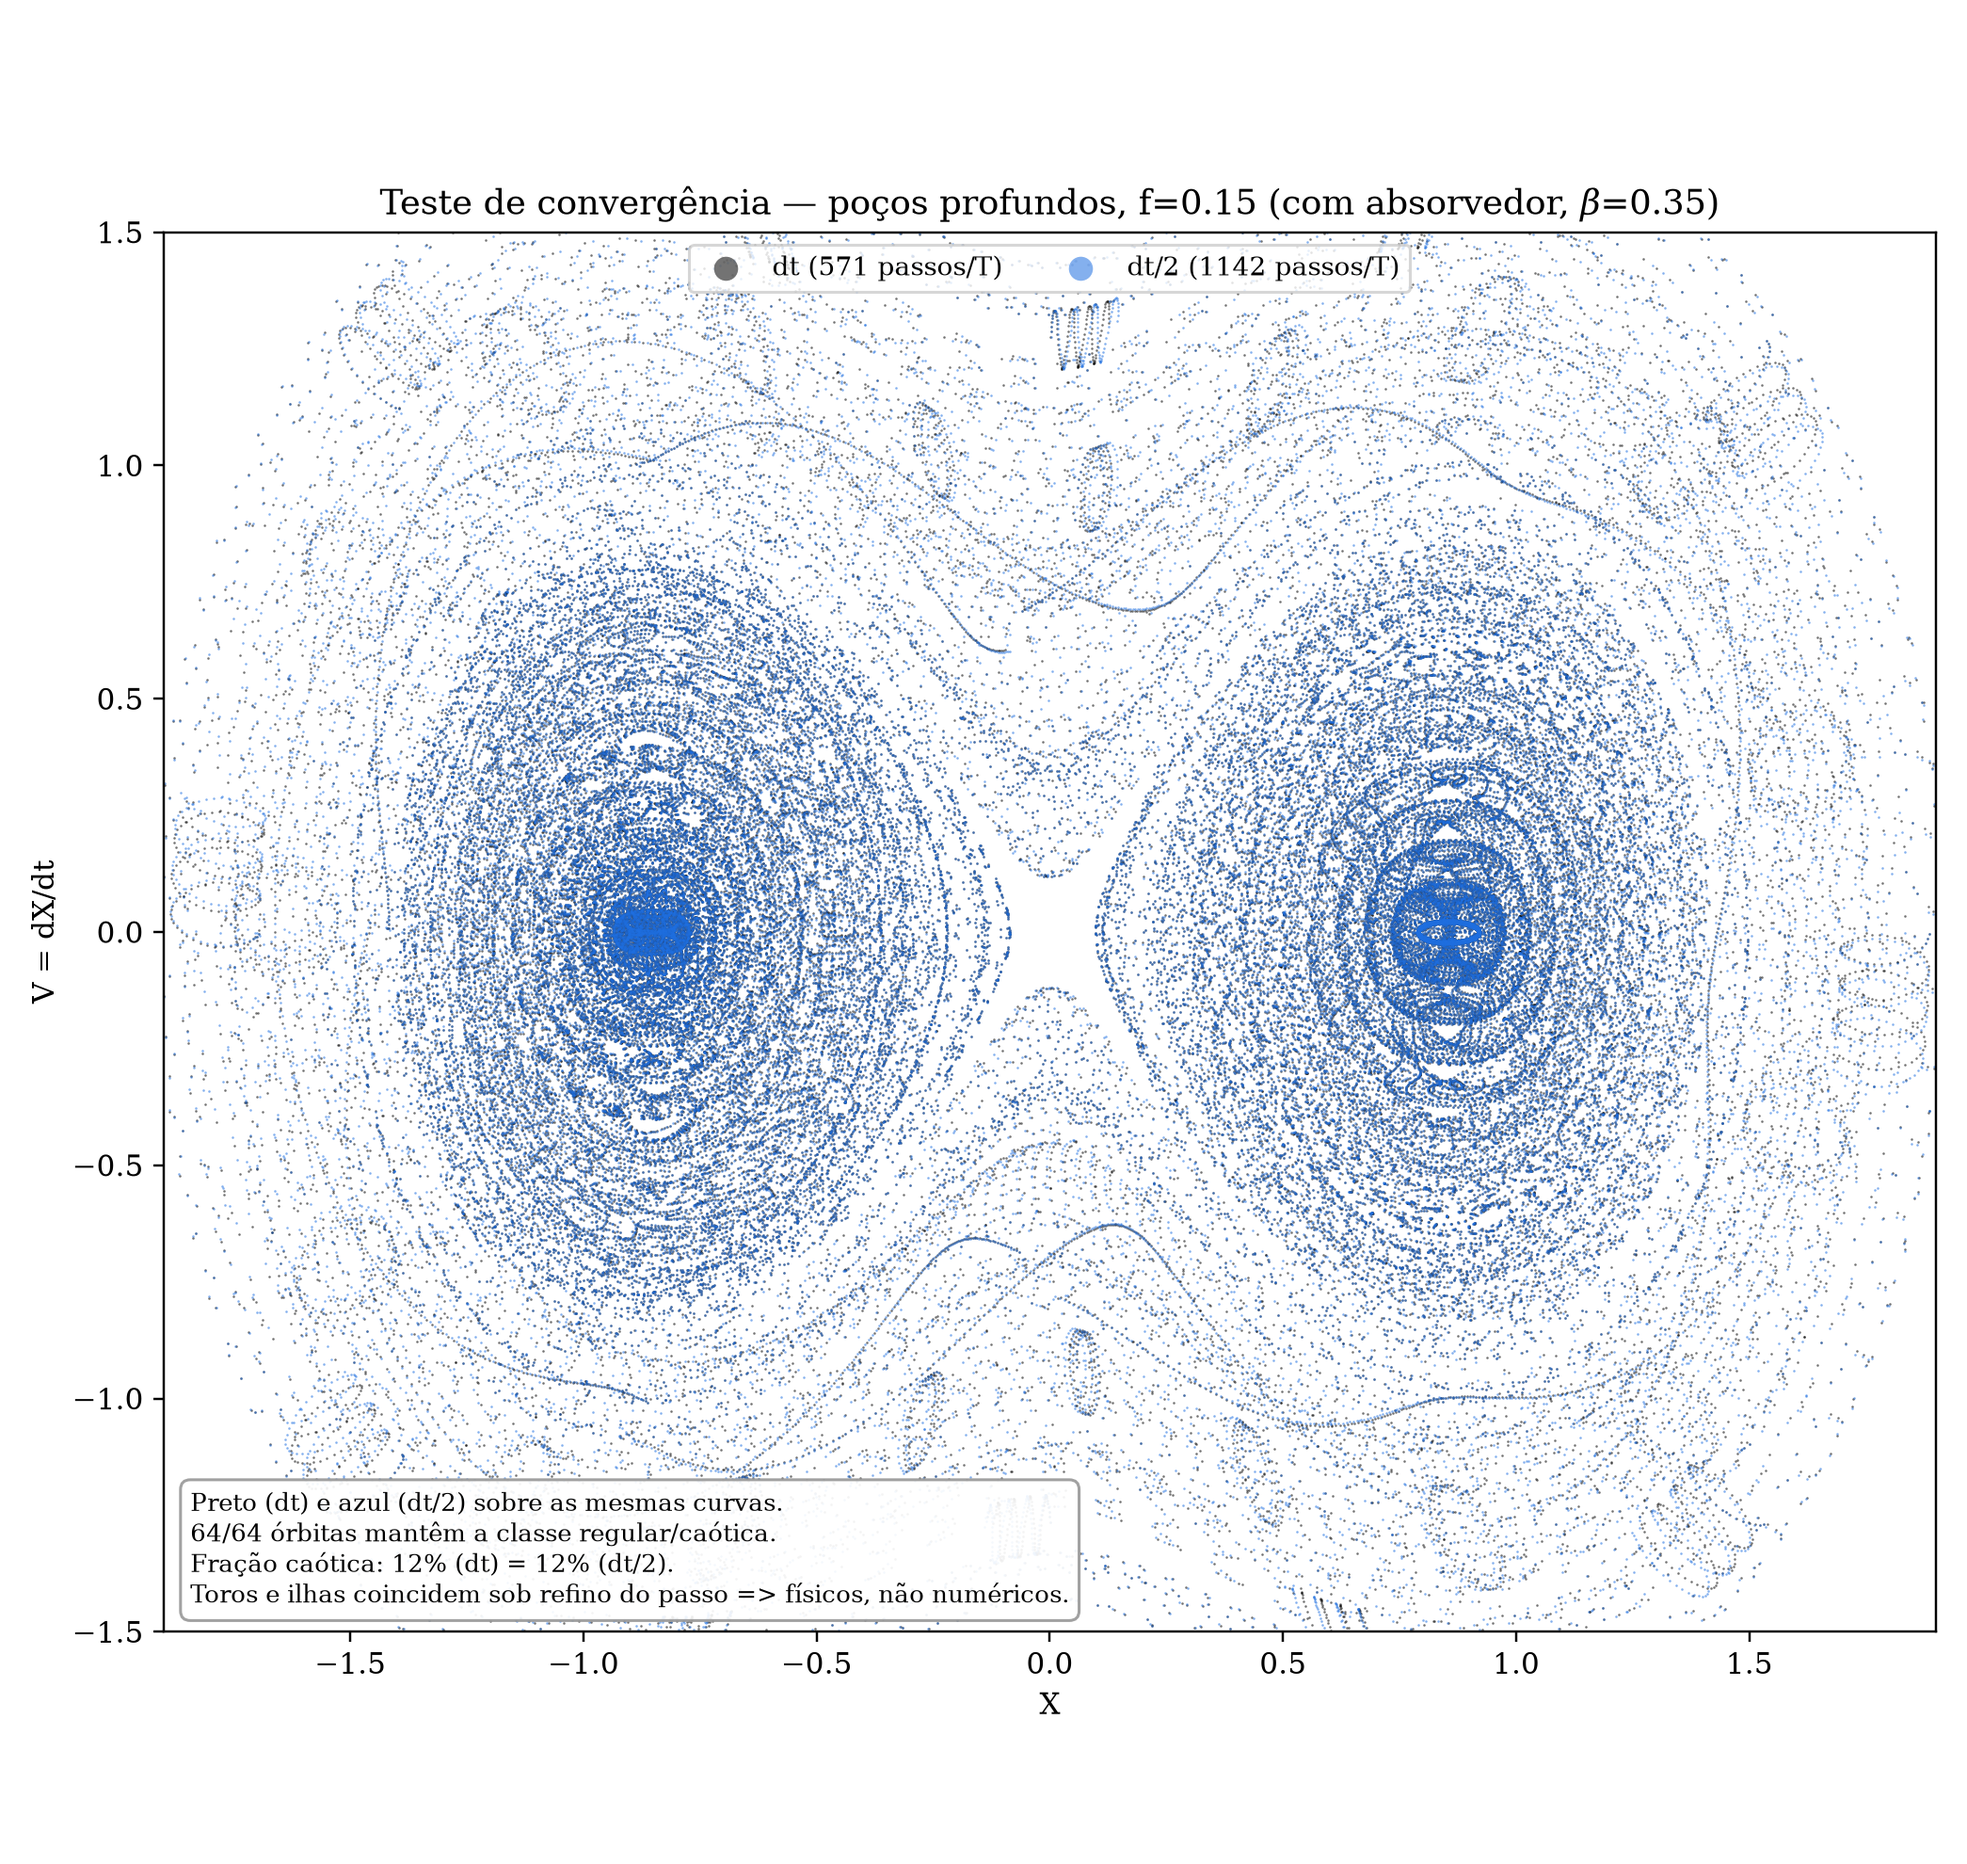
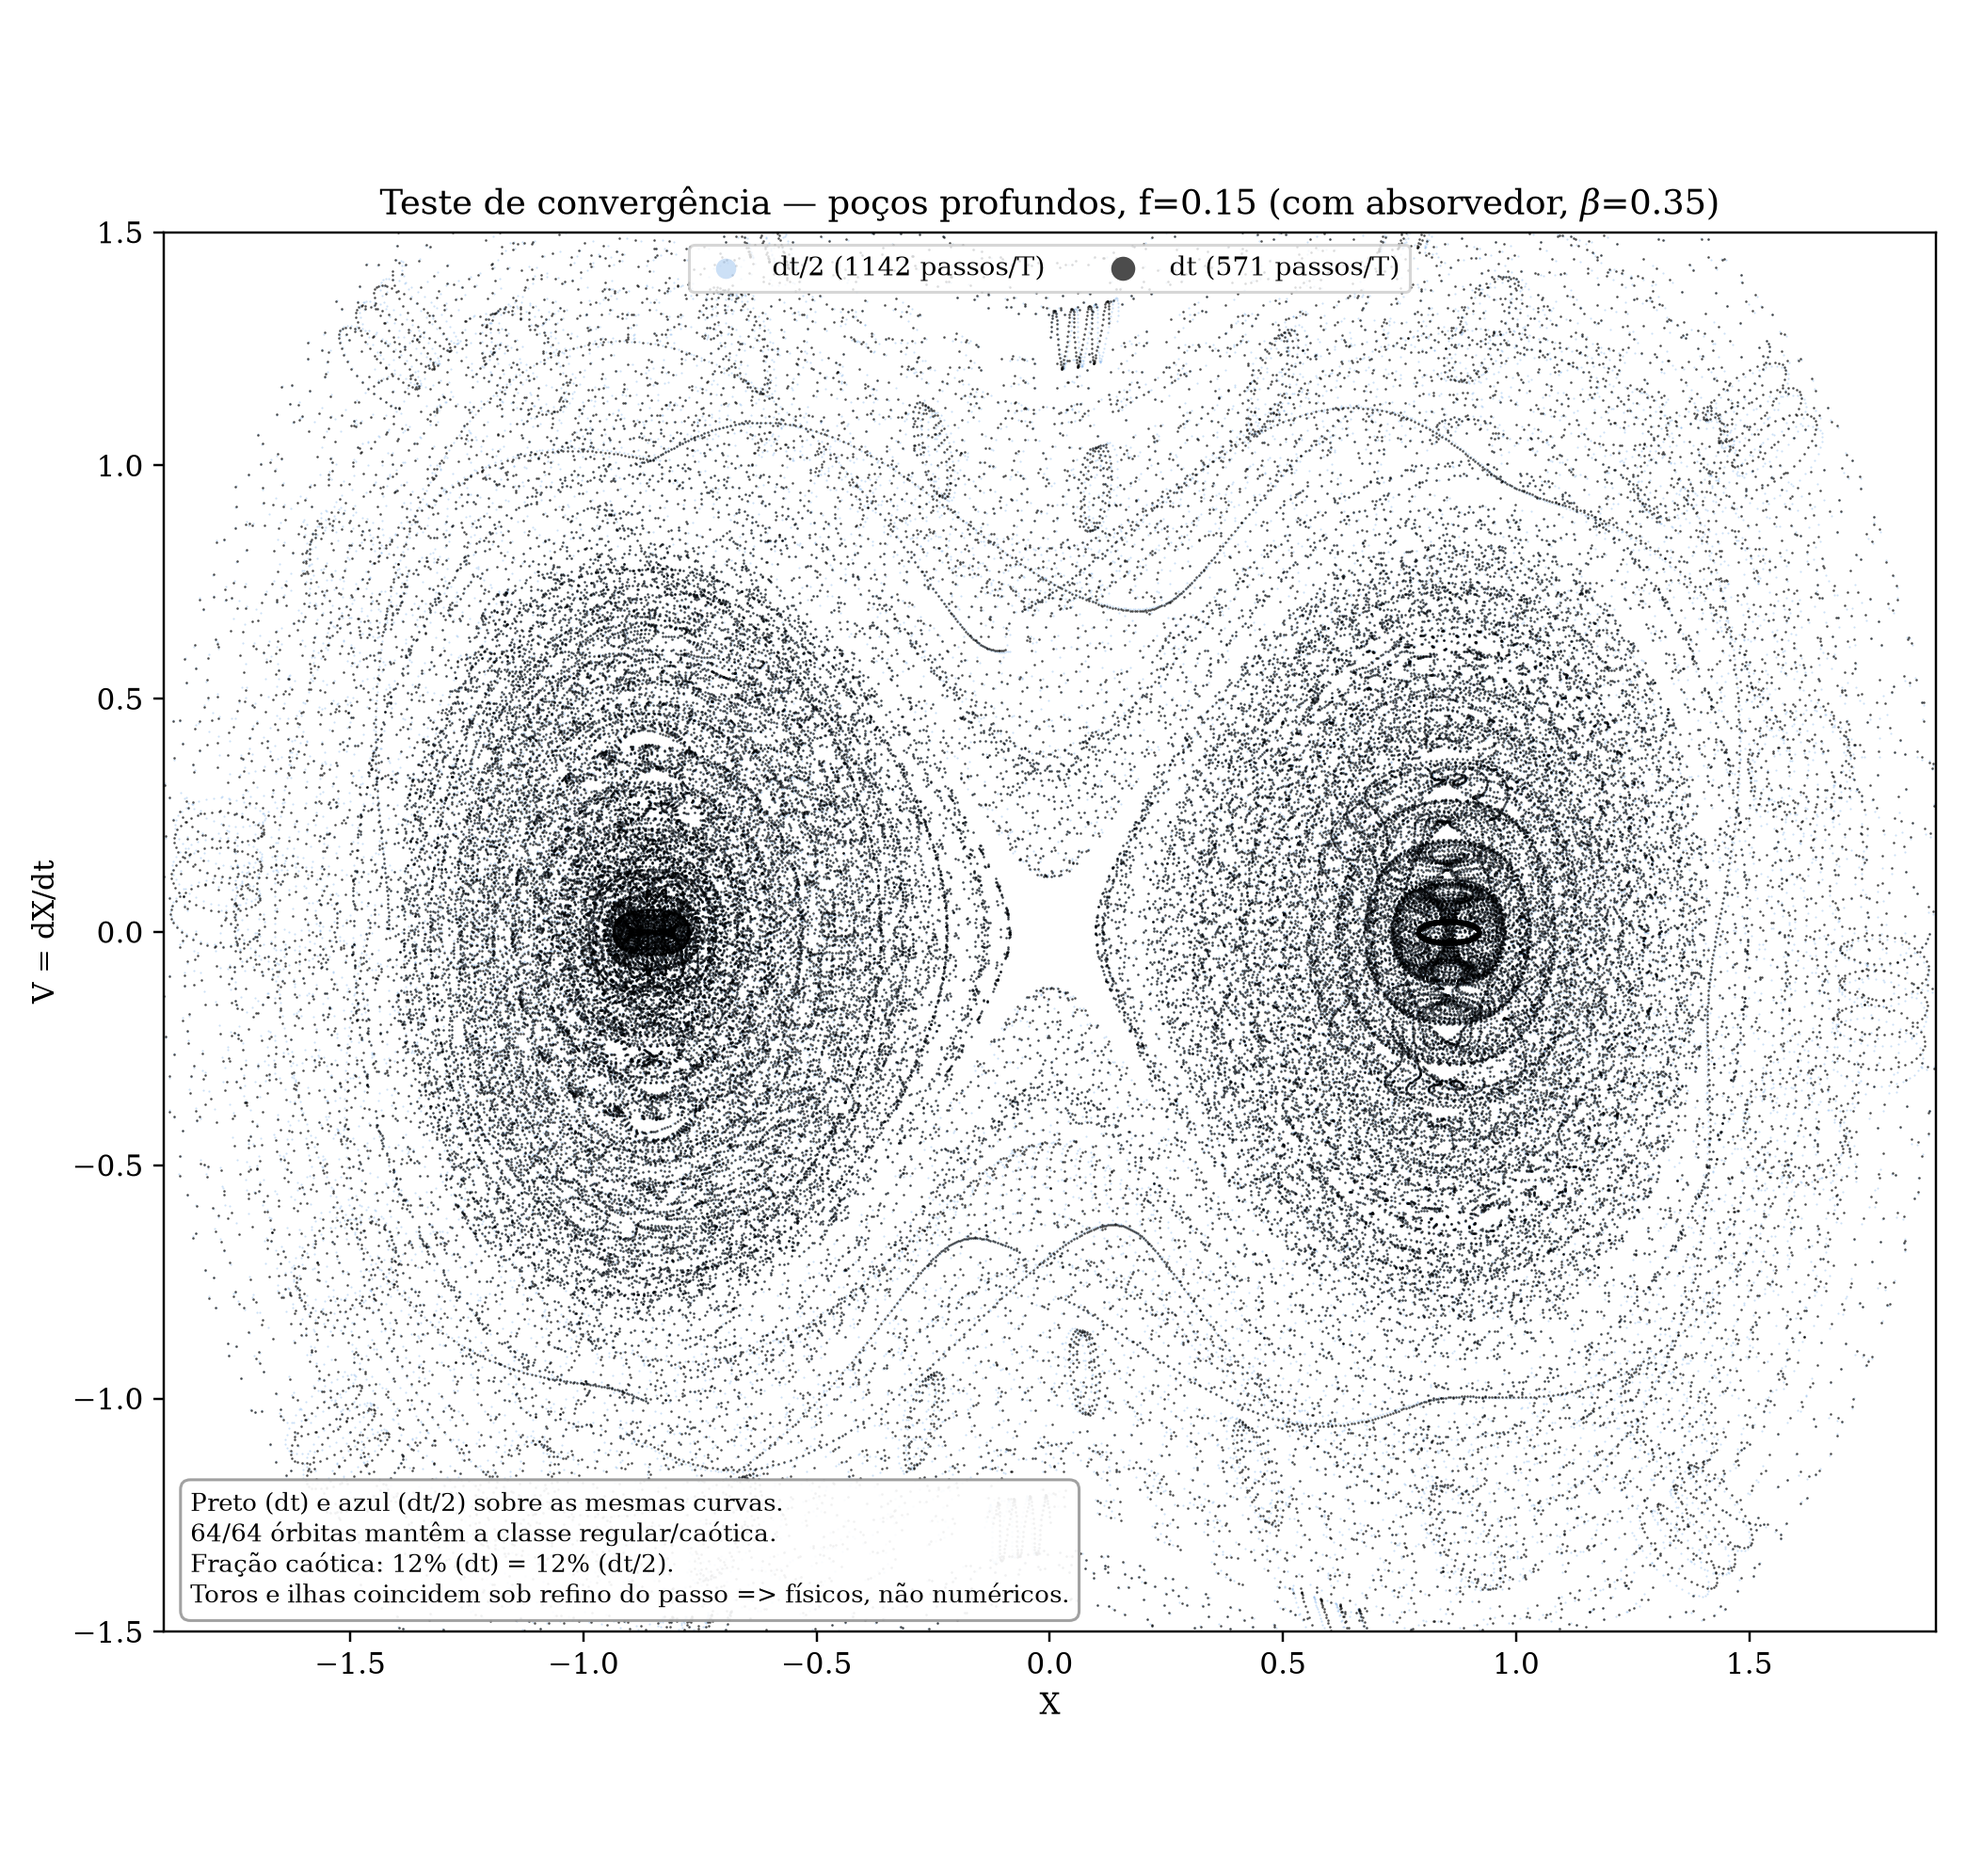
Ajusta convergencia: passo maior (dt) preto dominante, dt/2 azul fraco
Plota dt/2 (azul, alpha baixo) por baixo e dt (passo maior, preto) por cima,
para o preto dominar e o azul so aparecer onde coincidem.

Claude-Session: https://claude.ai/code/session_01M9Z6sd2LvskaDAYyLx3GdM

Changed region(s): [[0.0933, 0.1232, 0.9641, 0.8626], [0.6531, 0.8318, 0.6842, 0.8626]]

diff --git a/work/teste_convergencia.py b/work/teste_convergencia.py
@@ -46,10 +46,11 @@ def main():
 
     plt.rcParams.update({'font.family': 'serif', 'mathtext.fontset': 'dejavuserif'})
     fig, ax = plt.subplots(figsize=(9.5, 9), dpi=a.dpi)
-    ax.scatter(p1[:, 0, r1].ravel(), p1[:, 1, r1].ravel(), s=0.7, c='k', lw=0, alpha=0.55,
-               label='dt (%d passos/T)' % S.NS_SECOES)
-    ax.scatter(p2[:, 0, r2].ravel(), p2[:, 1, r2].ravel(), s=0.7, c='#1f6fe0', lw=0, alpha=0.55,
+    # dt/2 (azul, fraco) por baixo; dt (passo maior, preto) por cima e dominante
+    ax.scatter(p2[:, 0, r2].ravel(), p2[:, 1, r2].ravel(), s=0.5, c='#4a90e2', lw=0, alpha=0.28,
                label='dt/2 (%d passos/T)' % (2*S.NS_SECOES))
+    ax.scatter(p1[:, 0, r1].ravel(), p1[:, 1, r1].ravel(), s=0.7, c='k', lw=0, alpha=0.7,
+               label='dt (%d passos/T)' % S.NS_SECOES)
     c = S.CASES[nm]
     ax.set_xlim(-c['xw'], c['xw']); ax.set_ylim(-c['vw'], c['vw']); ax.set_aspect('equal')
     ax.set_xlabel('X'); ax.set_ylabel('V = dX/dt')
